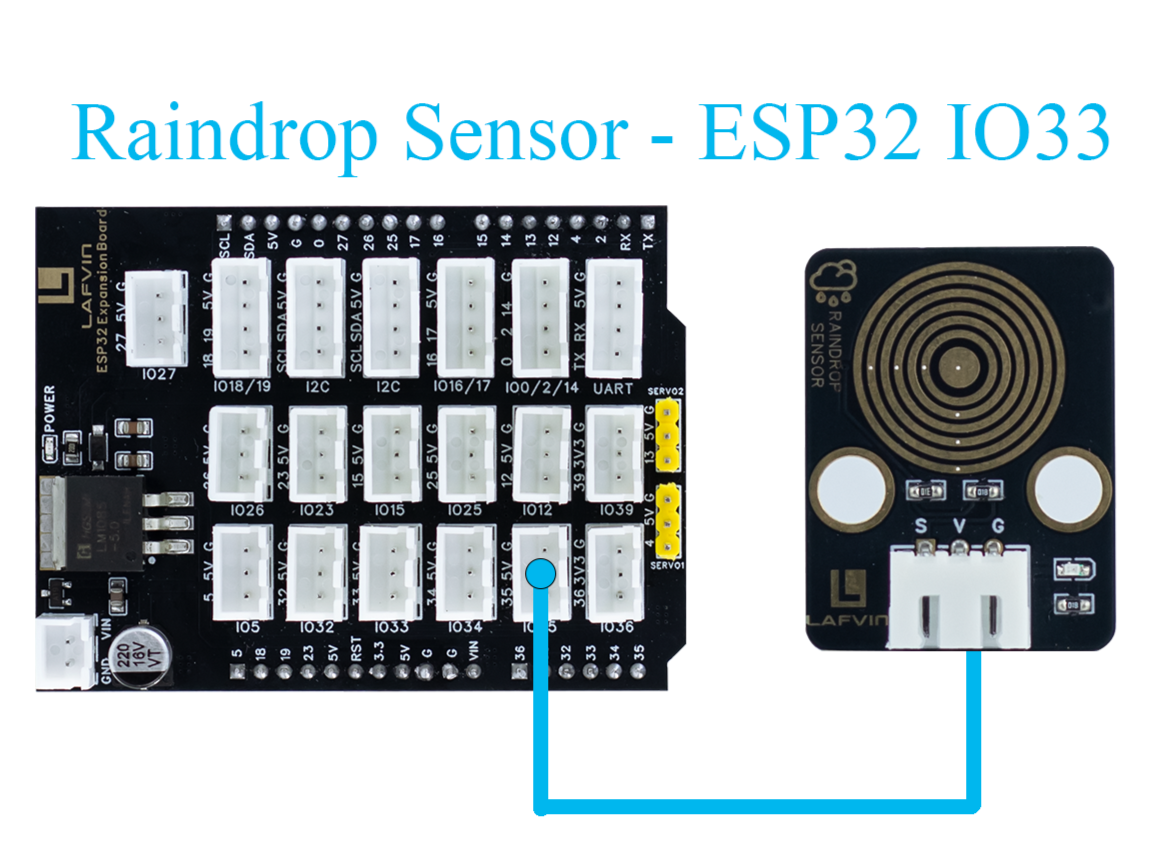
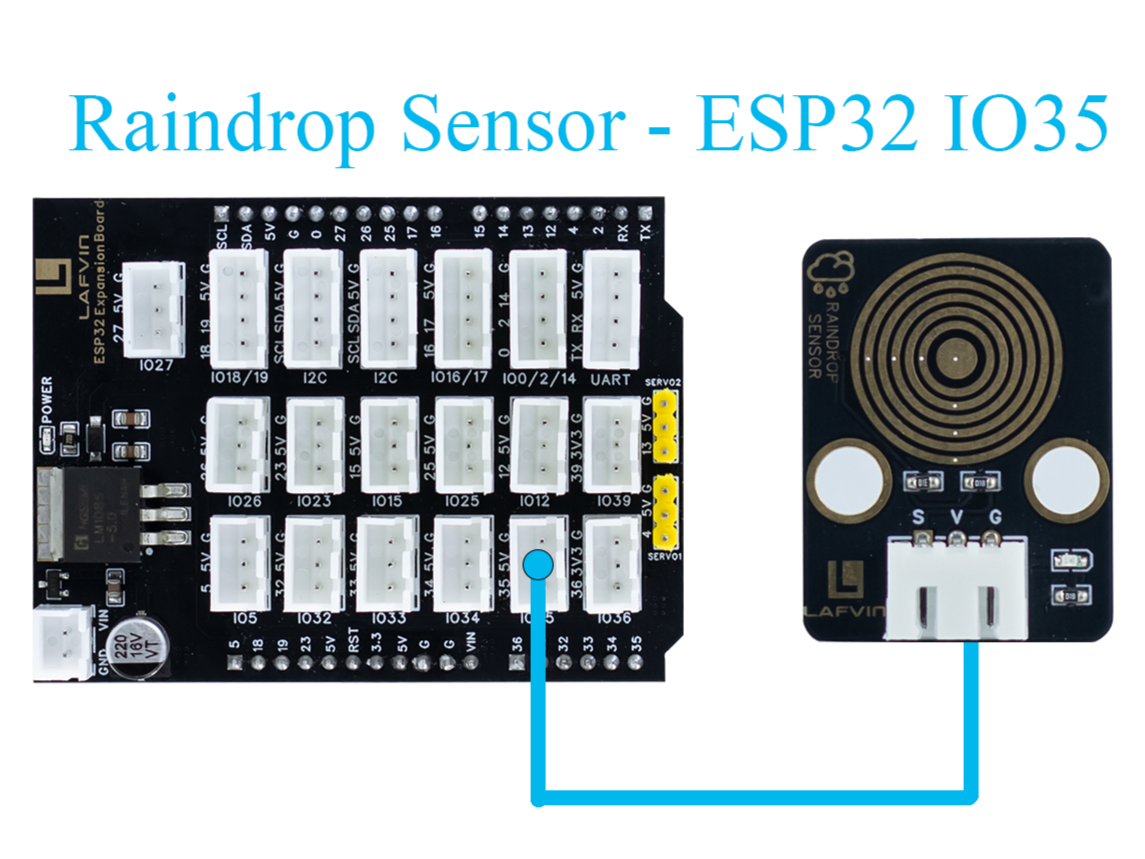
1

Changed region(s): [[0.0306, 0.0908, 0.9782, 0.9383], [0.6114, 0.0908, 0.7948, 0.2119], [0.8253, 0.0908, 0.9782, 0.1816]]

diff --git a/docs/source/The_kit_course_learning.rst b/docs/source/The_kit_course_learning.rst
@@ -312,6 +312,10 @@ Course 5：DHT11 Sensor+Fan Module-Temperature controlled fan
  - DHT11 Sensor → ESP32 IO15
  - FAN Module → ESP32 IO27
 
+.. image:: _static/COURSE/5.DHT11FAN.png
+   :width: 600
+   :align: center
+
 **Sample Code:**
 
 .. code-block:: cpp
@@ -398,9 +402,12 @@ Course 6：LCD1602 Screen-Environmental Status Display
 
  - LCD1602 Screen → ESP32 I2C
  - DHT11 Sensor → ESP32 IO15
- - PIR Sensor → ESP32 IO33
+ - LIGHT Sensor → ESP32 IO34
  - Raindrop Sensor → ESP32 IO35
 
+.. image:: _static/COURSE/6.LCD.png
+   :width: 600
+   :align: center
 
 **Sample Code:**
 

diff --git a/docs/source/Assembly_Tutorial.rst b/docs/source/Assembly_Tutorial.rst
@@ -17,7 +17,7 @@ Installation video tutorial
 Wiring
 ---------
 
-.. image:: _static/1/53.wiring.png
+.. image:: _static/1/53.wiring1.png
    :align: center
 
 
